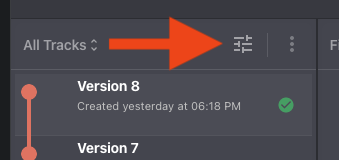
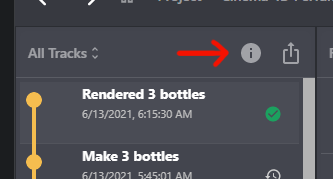
update screenshot and minor fixes

diff --git a/docs/project.md b/docs/project.md
@@ -7,12 +7,10 @@ sidebar_label: Project Info
 
 <div className="block">
 
-![left](/img/project-info-icon.png)
-
-Above the timeline is the project info  <span className="project-info-icon" /> icon.
+![left](/img/project-info-icon.png) Above the timeline is the project info  <span className="project-info-icon" /> icon.
 In this window Snowtrack shows information about your project and its content.
 </div>
 
 Below you can see a project with such information.
 
-![full](/img/project-info.png)
+![left](/img/project-info.png)
